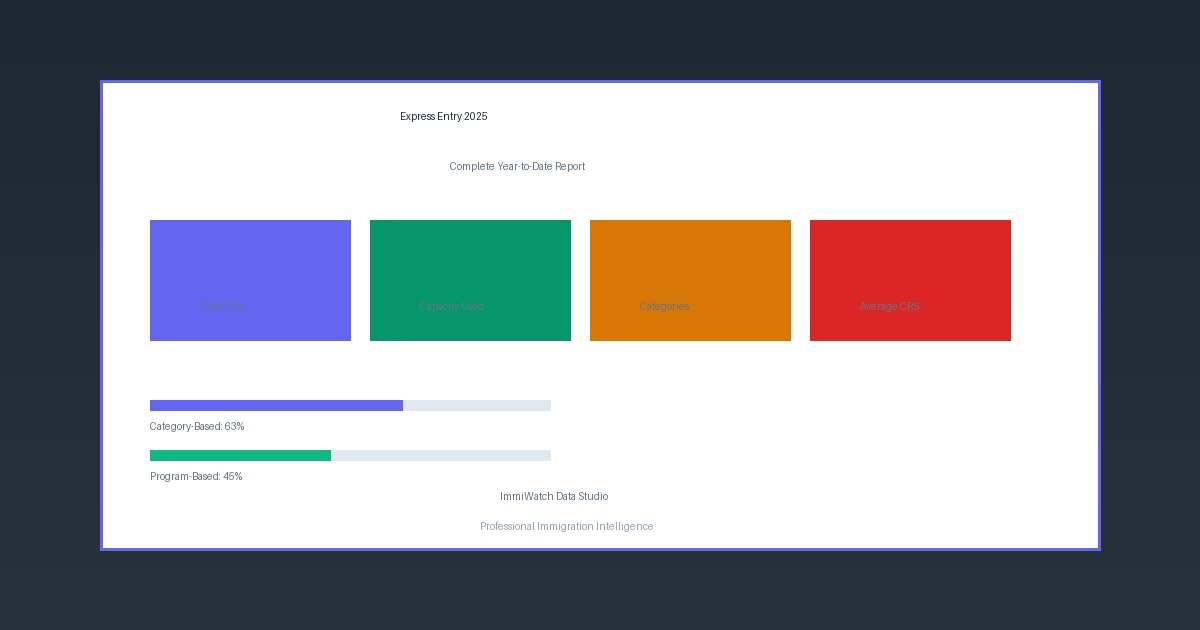
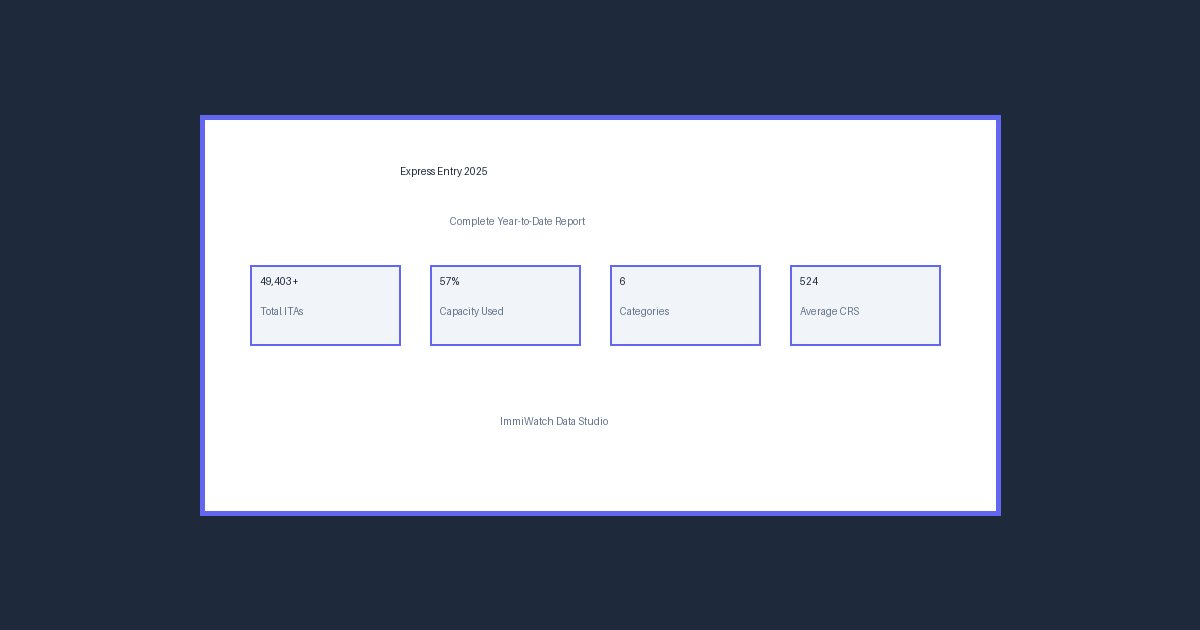
Optimize social media image: Simplified design, smaller file size, enhanced meta tags with v4 cache busting

diff --git a/reports/express-entry/ee-2025/index.html b/reports/express-entry/ee-2025/index.html
@@ -12,17 +12,22 @@
     <meta property="og:url" content="https://immiwatch.ca/reports/express-entry/ee-2025/">
     <meta property="og:title" content="Express Entry 2025: Complete Year-to-Date Report | ImmiWatch Data Studio">
     <meta property="og:description" content="📊 Comprehensive Express Entry 2025 analysis: 49,403+ ITAs issued, 57% capacity utilization, strategic insights for immigration professionals. Complete dashboard with interactive data visualization.">
-    <meta property="og:image" content="https://immiwatch.ca/assets/images/express-entry-2025-dashboard-preview.jpg?v=3">
+    <meta property="og:image" content="https://immiwatch.ca/assets/images/express-entry-2025-dashboard-preview.jpg?v=4">
     <meta property="og:image:width" content="1200">
     <meta property="og:image:height" content="630">
     <meta property="og:image:alt" content="Express Entry 2025 Dashboard - Interactive data visualization showing ITA statistics and immigration trends">
     <meta property="og:site_name" content="ImmiWatch Data Studio">
     <meta property="og:locale" content="en_US">
-    <meta property="og:image:secure_url" content="https://immiwatch.ca/assets/images/express-entry-2025-dashboard-preview.jpg?v=3">
+    <meta property="og:image:secure_url" content="https://immiwatch.ca/assets/images/express-entry-2025-dashboard-preview.jpg?v=4">
     <meta property="og:image:type" content="image/jpeg">
     
     <!-- LinkedIn Specific -->
-    <meta property="og:image:url" content="https://immiwatch.ca/assets/images/express-entry-2025-dashboard-preview.jpg?v=3">
+    <meta property="og:image:url" content="https://immiwatch.ca/assets/images/express-entry-2025-dashboard-preview.jpg?v=4">
+    <meta property="og:image:width" content="1200">
+    <meta property="og:image:height" content="630">
+    
+    <!-- Additional LinkedIn -->
+    <meta property="og:image:type" content="image/jpeg">
     <meta property="og:image:width" content="1200">
     <meta property="og:image:height" content="630">
     
@@ -31,7 +36,7 @@
     <meta name="twitter:url" content="https://immiwatch.ca/reports/express-entry/ee-2025/">
     <meta name="twitter:title" content="Express Entry 2025: Complete Year-to-Date Report">
     <meta name="twitter:description" content="📊 49,403+ ITAs issued • 57% capacity utilization • Strategic insights for immigration professionals. Complete interactive dashboard with data visualization.">
-    <meta name="twitter:image" content="https://immiwatch.ca/assets/images/express-entry-2025-dashboard-preview.jpg?v=3">
+    <meta name="twitter:image" content="https://immiwatch.ca/assets/images/express-entry-2025-dashboard-preview.jpg?v=4">
     <meta name="twitter:image:alt" content="Express Entry 2025 Dashboard - Interactive data visualization showing ITA statistics and immigration trends">
     <meta name="twitter:site" content="@immiwatch">
     <meta name="twitter:creator" content="@immiwatch">
@@ -41,7 +46,7 @@
     <meta property="og:image:height" content="630">
     
     <!-- Telegram -->
-    <meta property="og:image:url" content="https://immiwatch.ca/assets/images/express-entry-2025-dashboard-preview.jpg?v=3">
+    <meta property="og:image:url" content="https://immiwatch.ca/assets/images/express-entry-2025-dashboard-preview.jpg?v=4">
     
     <!-- Additional SEO -->
     <meta name="author" content="ImmiWatch Data Studio">
@@ -59,6 +64,9 @@
     <meta property="og:image:type" content="image/jpeg">
     <meta property="og:image:width" content="1200">
     <meta property="og:image:height" content="630">
+    
+    <!-- Debug: Test with a simple image -->
+    <meta property="og:image:test" content="https://immiwatch.ca/favicon.svg">
     
     <!-- Canonical URL -->
     <link rel="canonical" href="https://immiwatch.ca/reports/express-entry/ee-2025/">
